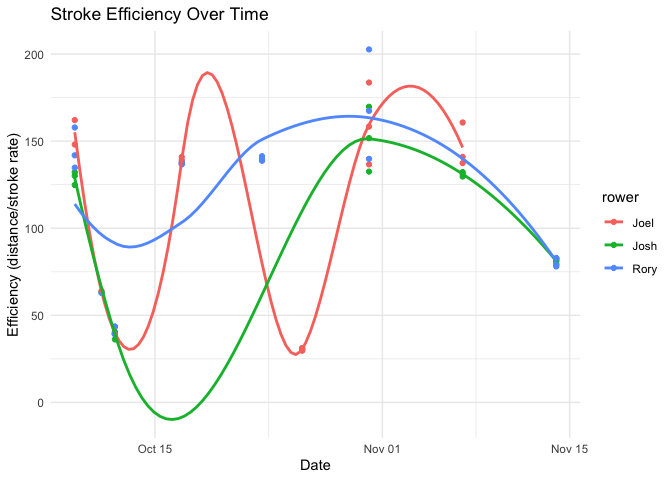
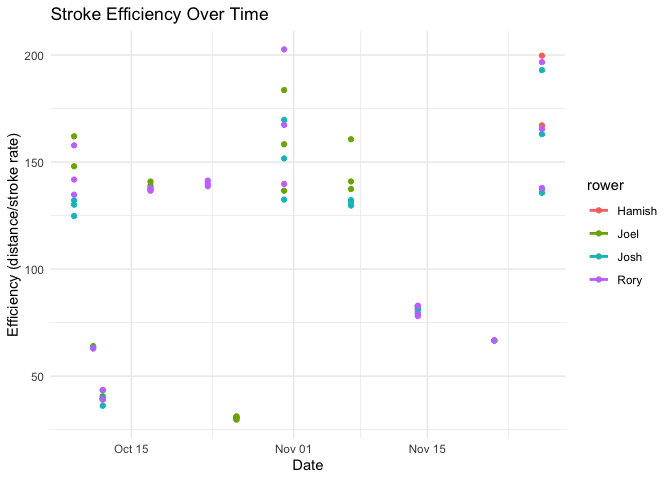
update

diff --git a/row-tracking.md b/row-tracking.md
@@ -19,7 +19,7 @@ skim(rowing_data)
 |                                                  |             |
 |:-------------------------------------------------|:------------|
 | Name                                             | rowing_data |
-| Number of rows                                   | 58          |
+| Number of rows                                   | 71          |
 | Number of columns                                | 6           |
 | \_\_\_\_\_\_\_\_\_\_\_\_\_\_\_\_\_\_\_\_\_\_\_   |             |
 | Column type frequency:                           |             |
@@ -35,22 +35,22 @@ Data summary
 
 | skim_variable | n_missing | complete_rate | min | max | empty | n_unique | whitespace |
 |:--------------|----------:|--------------:|----:|----:|------:|---------:|-----------:|
-| rower         |         0 |             1 |   4 |   4 |     0 |        3 |          0 |
+| rower         |         0 |             1 |   4 |   6 |     0 |        4 |          0 |
 
 **Variable type: numeric**
 
-| skim_variable | n_missing | complete_rate |    mean |     sd |  p0 |     p25 |    p50 |     p75 | p100 | hist  |
-|:--------------|----------:|--------------:|--------:|-------:|----:|--------:|-------:|--------:|-----:|:------|
-| erg_no        |         0 |             1 |    2.16 |   1.12 |   1 |    1.00 |    2.0 |    3.00 |    6 | ▇▃▁▁▁ |
-| time_mins     |         0 |             1 |    8.97 |   3.66 |   3 |    4.50 |   12.0 |   12.00 |   12 | ▃▁▂▁▇ |
-| distance      |         0 |             1 | 2241.66 | 849.94 | 833 | 1230.75 | 2586.5 | 2995.75 | 3535 | ▇▂▅▇▇ |
-| stroke_rate   |         0 |             1 |   23.22 |   3.86 |  14 |   22.00 |   22.0 |   26.00 |   30 | ▁▃▇▆▅ |
+| skim_variable | n_missing | complete_rate |    mean |     sd |  p0 |     p25 |  p50 |  p75 | p100 | hist  |
+|:--------------|----------:|--------------:|--------:|-------:|----:|--------:|-----:|-----:|-----:|:------|
+| erg_no        |         0 |             1 |    2.07 |   1.09 |   1 |    1.00 |    2 |    3 |    6 | ▇▃▁▁▁ |
+| time_mins     |         0 |             1 |    9.23 |   3.51 |   3 |    6.31 |   12 |   12 |   12 | ▃▁▂▁▇ |
+| distance      |         0 |             1 | 2313.11 | 803.84 | 833 | 1832.50 | 2731 | 2995 | 3535 | ▆▁▅▇▇ |
+| stroke_rate   |         0 |             1 |   22.94 |   4.42 |  14 |   21.00 |   22 |   26 |   30 | ▂▅▇▅▆ |
 
 **Variable type: POSIXct**
 
-| skim_variable | n_missing | complete_rate | min        | max        | median              | n_unique |
-|:--------------|----------:|--------------:|:-----------|:-----------|:--------------------|---------:|
-| date          |         0 |             1 | 2023-10-09 | 2023-11-14 | 2023-10-24 12:00:00 |        9 |
+| skim_variable | n_missing | complete_rate | min        | max        | median     | n_unique |
+|:--------------|----------:|--------------:|:-----------|:-----------|:-----------|---------:|
+| date          |         0 |             1 | 2023-10-09 | 2023-11-27 | 2023-10-31 |       11 |
 
 ``` r
 calculate_days_between <- function(data) {
@@ -115,12 +115,13 @@ summary_stats <- processed_data %>%
 print(summary_stats)
 ```
 
-    ## # A tibble: 3 × 6
-    ##   rower avg_speed avg_efficiency total_distance total_time avg_burnout_index
-    ##   <chr>     <dbl>          <dbl>          <dbl>      <dbl>             <dbl>
-    ## 1 Joel       264.           95.8          43147        168               Inf
-    ## 2 Josh       246.          102.           37738        158               Inf
-    ## 3 Rory       256.          114.           49131        194               Inf
+    ## # A tibble: 4 × 6
+    ##   rower  avg_speed avg_efficiency total_distance total_time avg_burnout_index
+    ##   <chr>      <dbl>          <dbl>          <dbl>      <dbl>             <dbl>
+    ## 1 Hamish      258.          143.           10828       42.8               Inf
+    ## 2 Joel        266.           94.4          45147      175.                Inf
+    ## 3 Josh        247.          110.           48359      201.                Inf
+    ## 4 Rory        256.          119.           59897      237.                Inf
 
 ``` r
 ggplot(processed_data, aes(x = date, y = burnout_index, color = rower)) +
@@ -175,7 +176,7 @@ ggplot(processed_data, aes(x = date, y = speed, color = rower)) +
 speed_model <- lmer(speed ~ days_between_sessions + (1 + days_between_sessions|rower), data=processed_data)
 ```
 
-    ## boundary (singular) fit: see help('isSingular')
+    ## boundary (singular) fit: see ?isSingular
 
 ``` r
 speed_model <- lmer(speed ~ days_between_sessions + (1|rower), data=processed_data)
@@ -186,26 +187,26 @@ summary(speed_model)
     ## Formula: speed ~ days_between_sessions + (1 | rower)
     ##    Data: processed_data
     ## 
-    ## REML criterion at convergence: 505.6
+    ## REML criterion at convergence: 631
     ## 
     ## Scaled residuals: 
-    ##      Min       1Q   Median       3Q      Max 
-    ## -2.65036 -0.61056 -0.04959  0.79691  1.78699 
+    ##     Min      1Q  Median      3Q     Max 
+    ## -2.4969 -0.5473 -0.1145  0.7343  1.9466 
     ## 
     ## Random effects:
     ##  Groups   Name        Variance Std.Dev.
-    ##  rower    (Intercept)  61.3     7.83   
-    ##  Residual             383.1    19.57   
-    ## Number of obs: 58, groups:  rower, 3
+    ##  rower    (Intercept)  52.29    7.232  
+    ##  Residual             445.58   21.109  
+    ## Number of obs: 71, groups:  rower, 4
     ## 
     ## Fixed effects:
-    ##                       Estimate Std. Error t value
-    ## (Intercept)           257.0432     5.3452  48.088
-    ## days_between_sessions  -0.8808     0.6941  -1.269
+    ##                        Estimate Std. Error t value
+    ## (Intercept)           256.45126    4.75905  53.887
+    ## days_between_sessions   0.06179    0.63744   0.097
     ## 
     ## Correlation of Fixed Effects:
     ##             (Intr)
-    ## dys_btwn_ss -0.229
+    ## dys_btwn_ss -0.269
 
 ``` r
 # Visualizations
